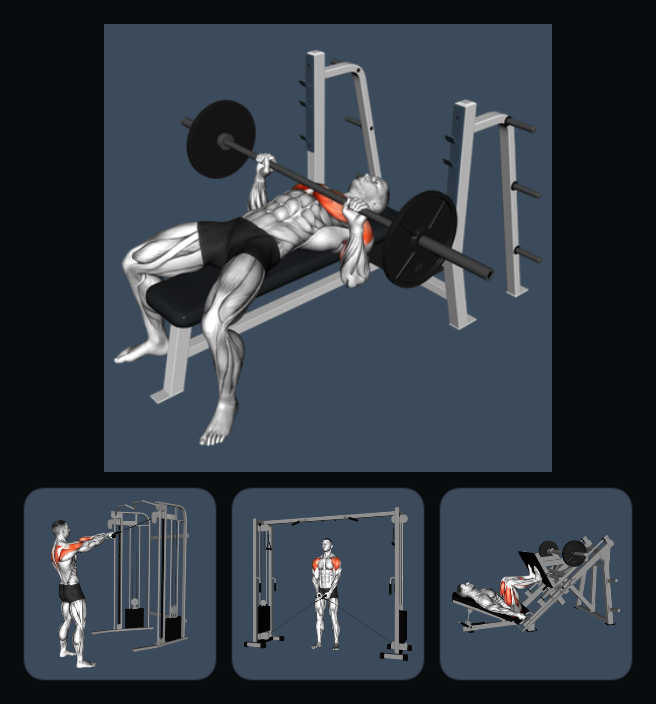
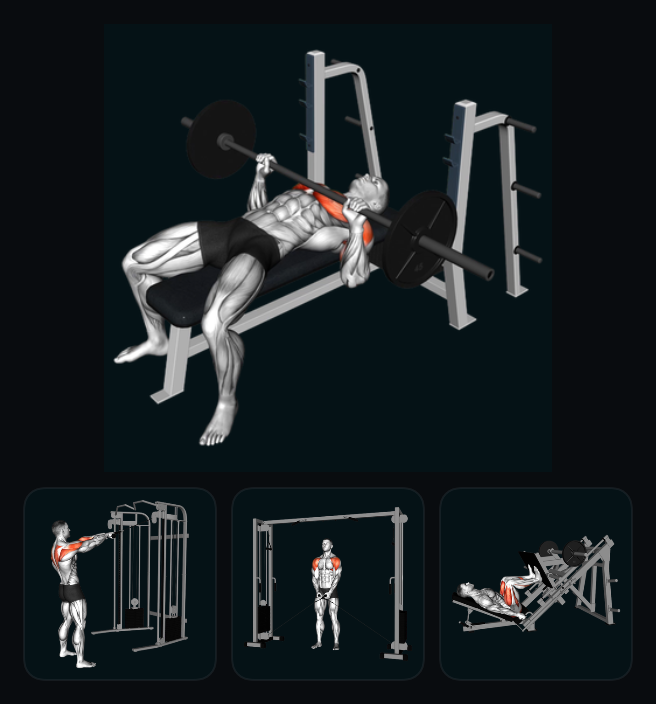
Use video background surface #051216 for exercise thumbnails

diff --git a/FormApp/Theme/AppColors.swift b/FormApp/Theme/AppColors.swift
@@ -5,7 +5,7 @@ public enum AppColors {
     public static let surface = Color(hex: 0x13171B)
     public static let surfaceRaised = Color(hex: 0x1D2227)
     public static let exerciseVideoSurface = Color(hex: 0x051216)
-    public static let exerciseThumbnailSurface = Color(hex: 0x3B4B5B)
+    public static let exerciseThumbnailSurface = Color(hex: 0x051216)
     public static let text = Color(hex: 0xF3F5F5)
     public static let secondaryText = Color(hex: 0xB6BEC4)
     public static let muted = Color(hex: 0x8F999F)

diff --git a/FormAppTests/FormAppTests.swift b/FormAppTests/FormAppTests.swift
@@ -233,6 +233,9 @@ final class FormAppTests: XCTestCase {
         renderer.scale = 2
         let image = try XCTUnwrap(renderer.uiImage)
         XCTAssertEqual(image.pngData(), renderer.uiImage?.pngData())
+        if let data = image.pngData() {
+            try? data.write(to: URL(fileURLWithPath: "/private/tmp/static-thumbnails-ios.png"))
+        }
         let attachment = XCTAttachment(image: image)
         attachment.name = "Static STEP1 thumbnails"
         attachment.lifetime = .keepAlways

diff --git a/docs/exercise-thumbnails.md b/docs/exercise-thumbnails.md
@@ -13,7 +13,7 @@ The catalogue preserves source filenames/hashes/dimensions, crop bounds and
 output dimensions/hashes. The 300 PNGs total 24,203,332 bytes.
 
 MovementIcon and MovementIllustration show one static fitted image on the
-thumbnail-only slate backdrop `#3B4B5B`, with an 8 MiB decoded-image cache.
+thumbnail backdrop `#051216` (matching the video surface), with an 8 MiB decoded-image cache.
 Lookup is by canonical exercise ID, never translated name or old artwork alias.
 Unknown custom exercises remain blank. Detail video playback, crop metadata,
 `#16202A` video surface, prescriptions and personal workout data are unchanged.
